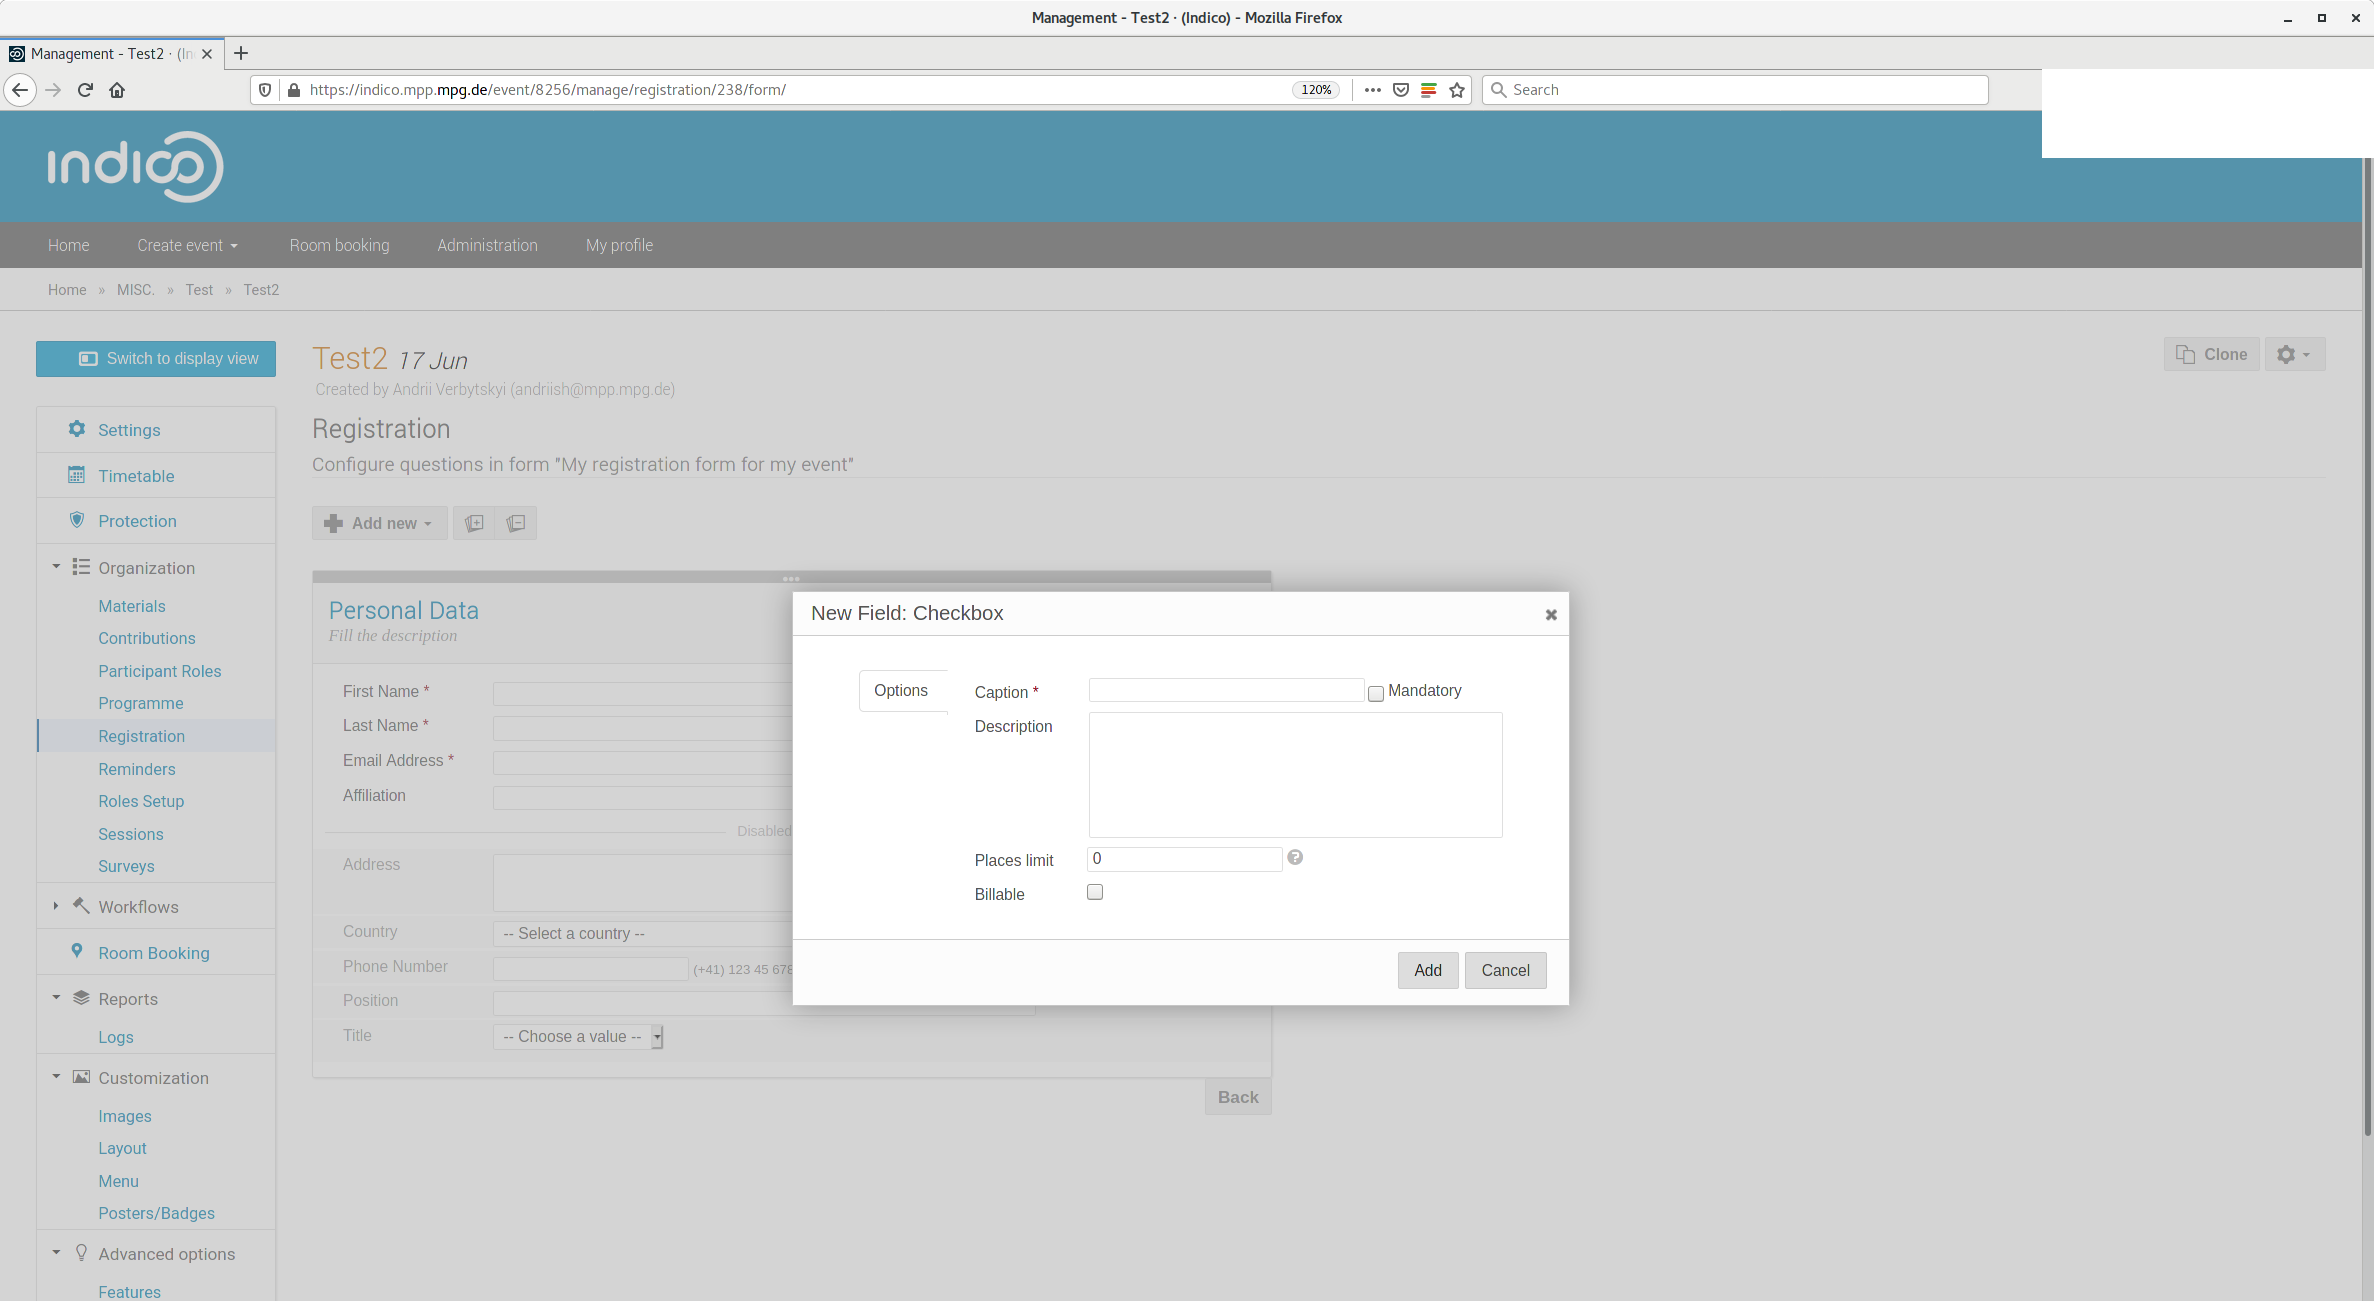
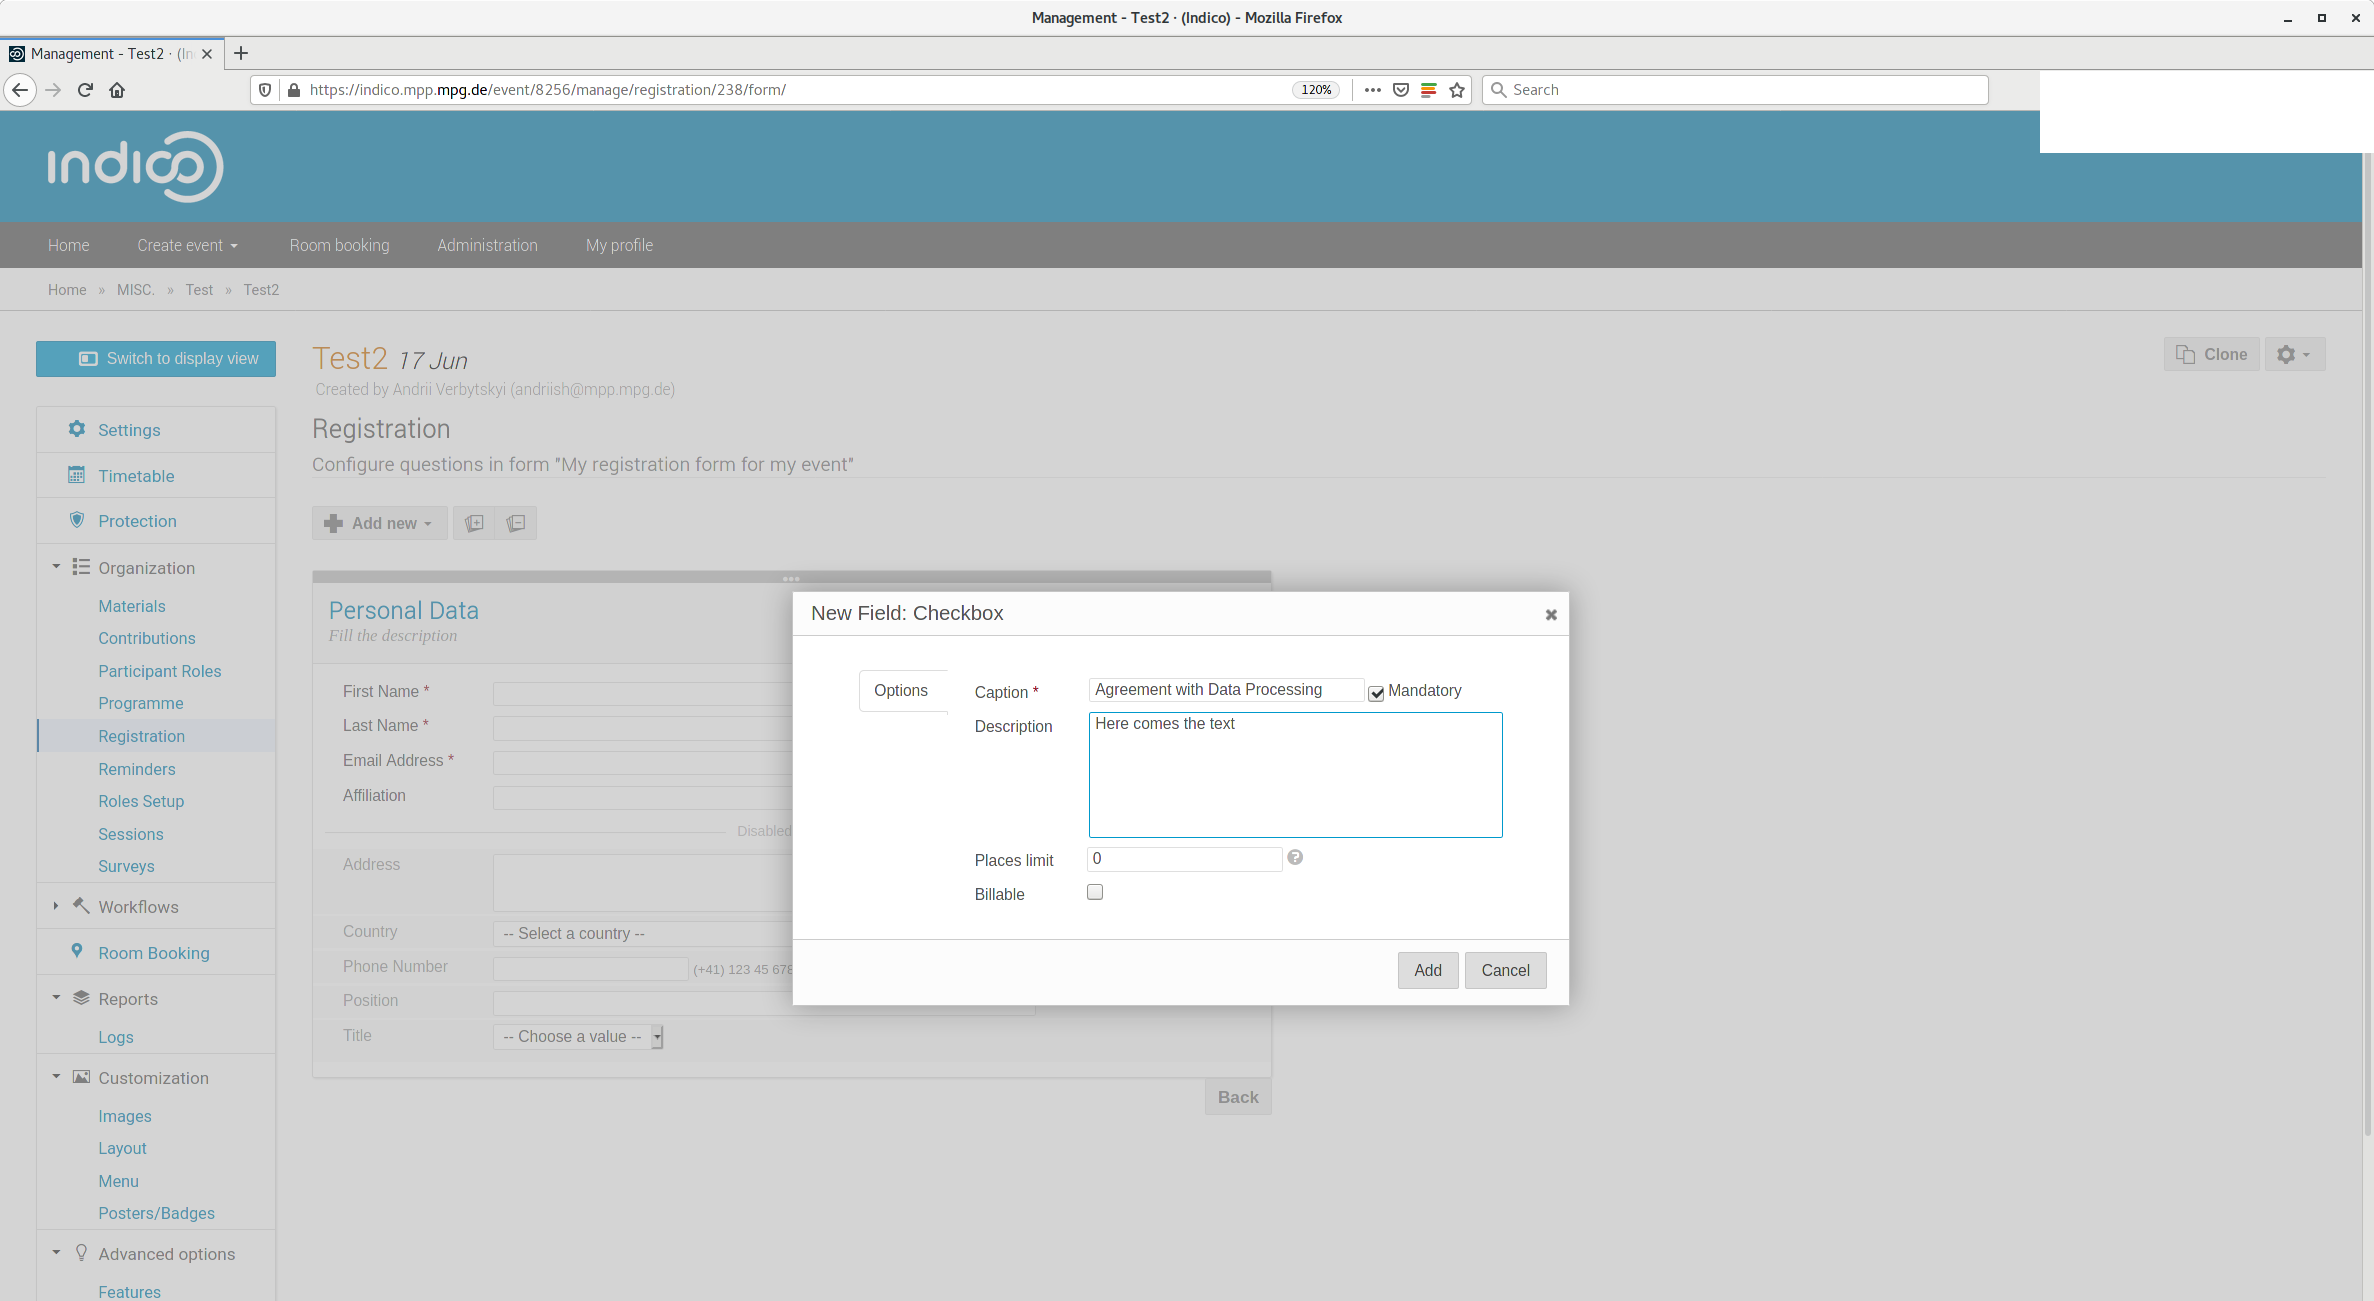
Update

Changed region(s): [[0.8728, 0.0922, 1.0, 1.0], [0.4676, 0.5227, 0.5611, 0.5842]]

diff --git a/manager/add_DP_agreement_to_conference/README.md b/manager/add_DP_agreement_to_conference/README.md
@@ -1,7 +1,44 @@
+Dear conference manager, 
+
+if you allow users without an Indico account to register for yur conference, two extra mandatory fields should be added to the registration form.
+
+- "Acceptance of MPP Indico terms and conditions"
+Should contain text 
+"
+I have read the MPP Indico service terms and conditions at https://indico.mpp.mpg.de/tos and accept them.
+"
+
+- "I consent to processing of my personal data entered in this form"
+Should contain text 
+
+"
+I consent to processing of my personal data in this form. 
+The Data Protection Information for the MPP Indico can be found at https://indico.mpp.mpg.de/privacy. 
+In case you don't consent, please contact the event organizers to register in other way.
+"
+
+The way to add an extra field is shown below
+
+1. Click at "Registration form"
+
 ![](https://raw.githubusercontent.com/mppmu/MPPIndico/master/manager/add_DP_agreement_to_conference/1.png)
+
+2. Click at "+" sign
+
 ![](https://raw.githubusercontent.com/mppmu/MPPIndico/master/manager/add_DP_agreement_to_conference/2.png)
+
+3. Select "Checkbox"
+
 ![](https://raw.githubusercontent.com/mppmu/MPPIndico/master/manager/add_DP_agreement_to_conference/3.png)
+
+4. Fill the form using the text discussed above 
+
 ![](https://raw.githubusercontent.com/mppmu/MPPIndico/master/manager/add_DP_agreement_to_conference/4.png)
+
+5. The result should look like this. Click "Add".
+
 ![](https://raw.githubusercontent.com/mppmu/MPPIndico/master/manager/add_DP_agreement_to_conference/5.png)
+
+6. Check the new field has appeared in the form
+
 ![](https://raw.githubusercontent.com/mppmu/MPPIndico/master/manager/add_DP_agreement_to_conference/6.png)
-![](https://raw.githubusercontent.com/mppmu/MPPIndico/master/manager/add_DP_agreement_to_conference/7.png)
